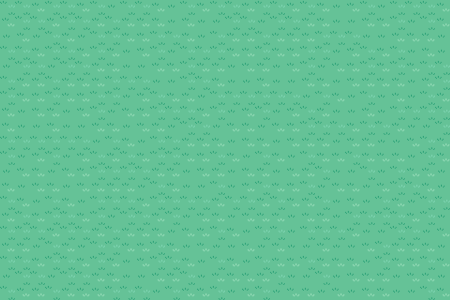
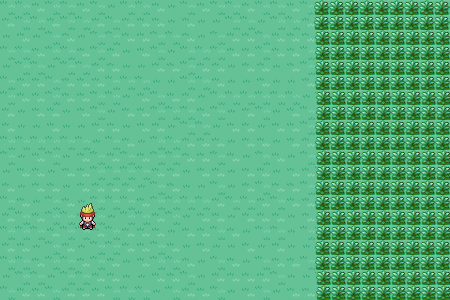
Melhoria no Mapa

Changed region(s): [[0.6844, 0.0, 1.0, 1.0], [0.1556, 0.66, 0.2178, 0.78]]

diff --git a/src/main/StageController.java b/src/main/StageController.java
@@ -56,10 +56,10 @@ public class StageController extends JPanel implements ActionListener {
 		player.update(elapsedTime);
 							
 		previousTime = currentTime;
-		if (player.getX() > 100 && !player.isInBattle)
+		if (player.getX() > 150 && !player.isInBattle)
 		{
 			player.isInBattle = true;
-			if(Math.random() < 2)
+			if(Math.random() < 0.9)
 			{
 				Battle battle = new Battle(jogador);
 				battle.setVisible(true);
